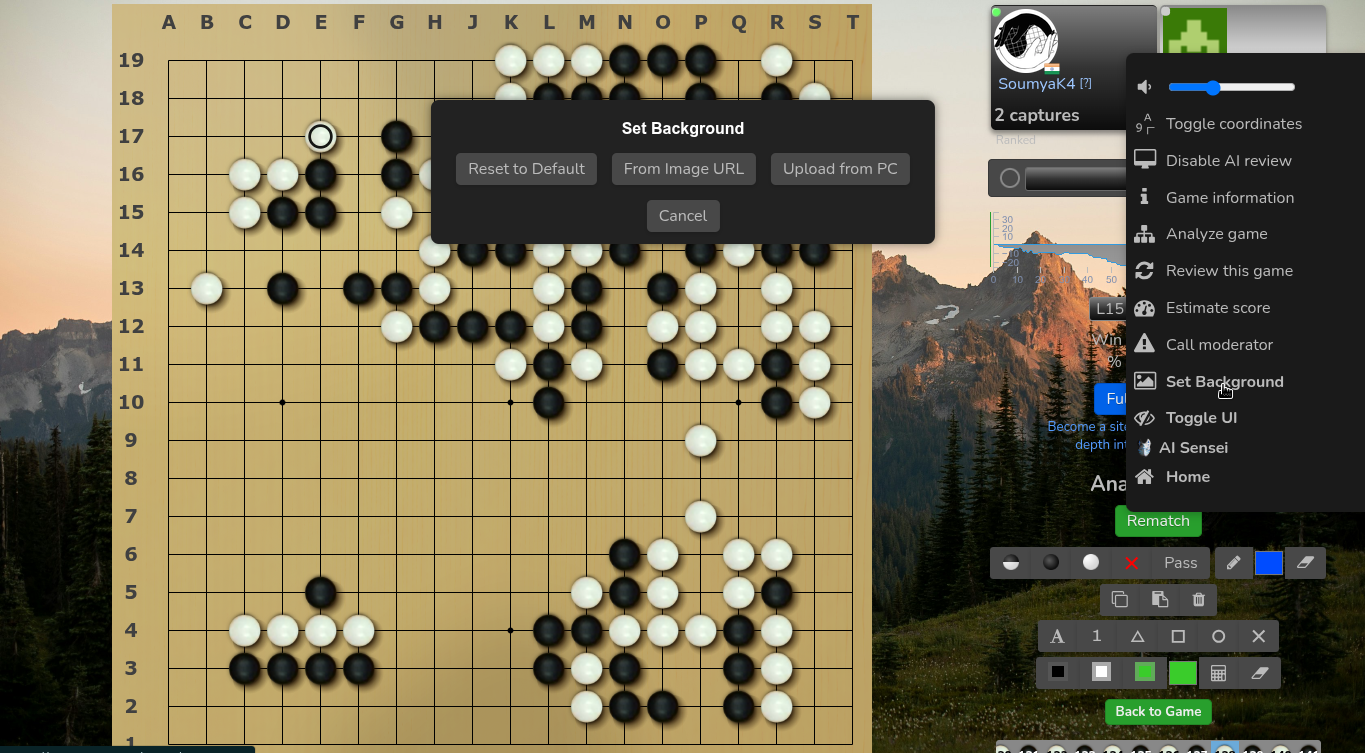
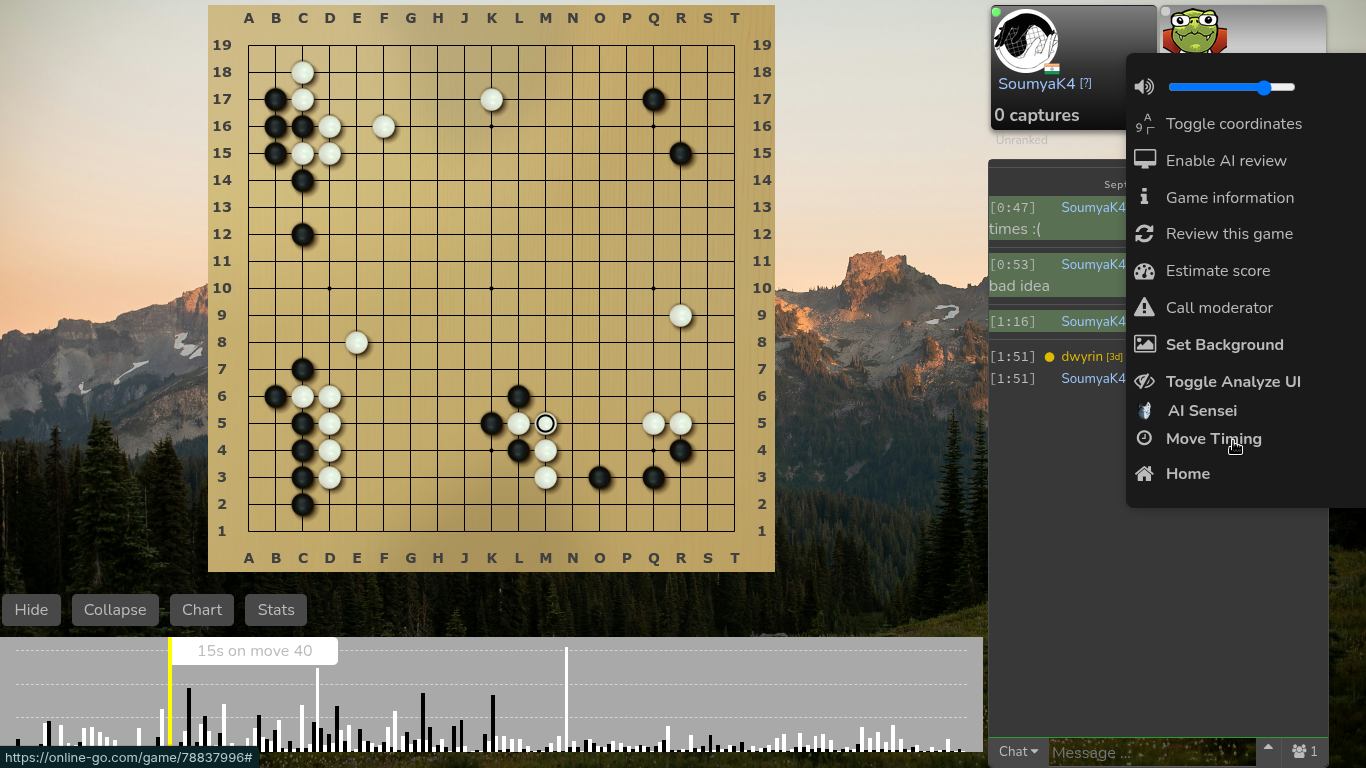
v2.8

diff --git a/OGS-Cosmetic.user.js b/OGS-Cosmetic.user.js
@@ -1,8 +1,8 @@
 // ==UserScript==
 // @name         OGS Custom Cosmetics + UI/UX
 // @namespace    https://soumyak4.in
-// @version      2.7
-// @description  Clean UI, custom background (URL/upload/reset), scroll nav, dock buttons (incl. Toggle UI & AI Sensei). Includes Shift/Ctrl+Scroll behavior, dock item removal by text match, and SGF-to-AI-Sensei integration.
+// @version      2.8
+// @description  Clean UI, custom background (URL/upload/reset), scroll nav, dock buttons (incl. Toggle UI, AI Sensei & Move Timing). Includes Shift/Ctrl+Scroll behavior, dock item removal by text match, and SGF-to-AI-Sensei integration.
 // @author       SoumyaK4
 // @match        https://online-go.com/game/*
 // @match        https://online-go.com/review/*
@@ -18,9 +18,7 @@
   // Default background image URL
   const DEFAULT_BG = 'https://raw.githubusercontent.com/JaKooLit/Wallpaper-Bank/main/wallpapers/Sun-Setting-Horizon.png';
 
-  /**
-   * Utility: Wait for an element to appear in the DOM
-   */
+  /** Utility: Wait for an element to appear in the DOM */
   const waitFor = (selector) => new Promise(resolve => {
     const found = document.querySelector(selector);
     if (found) return resolve(found);
@@ -34,9 +32,7 @@
     observer.observe(document.body, { childList: true, subtree: true });
   });
 
-  /**
-   * Remove top navigation bars, sidebars, and action bars
-   */
+  /** Remove top navigation bars, sidebars, and action bars */
   const cleanLayout = () => {
     ['.NavBar', '.AccessibilityMenu', '.Announcements', '.left-col'].forEach(sel => {
       document.querySelector(sel)?.remove();
@@ -46,9 +42,7 @@
     document.querySelector('div.Game.MainGobanView.wide')?.style.setProperty('top', '0');
   };
 
-  /**
-   * Inject CSS overrides to hide headers and clean UI
-   */
+  /** Inject CSS overrides to hide headers and clean UI */
   const injectCSS = () => {
     const css = `
       .action-bar, .NavBar, header, .SiteHeader, .TopBar, .NavigationBar {
@@ -63,9 +57,7 @@
     document.head.appendChild(style);
   };
 
-  /**
-   * Apply custom background (default or user-set)
-   */
+  /** Apply custom background (default or user-set) */
   const setCustomBackground = () => {
     const url = localStorage.getItem('ogs-custom-bg') || DEFAULT_BG;
     document.documentElement.style.backgroundImage = `url('${url}')`;
@@ -83,9 +75,7 @@
     }
   };
 
-  /**
-   * Show popup menu for background options (reset/url/upload)
-   */
+  /** Show popup menu for background options (reset/url/upload) */
   const backgroundOptionMenu = () => {
     const container = document.createElement('div');
     container.style.cssText = `
@@ -141,9 +131,7 @@
     document.getElementById('close-bg').onclick = () => container.remove();
   };
 
-  /**
-   * Add "Set Background" button to dock
-   */
+  /** Add "Set Background" button to dock */
   const addBackgroundSetterButton = async () => {
     const dock = await waitFor('div.Dock');
     if (dock.querySelector('.set-bg-button')) return;
@@ -165,9 +153,7 @@
     }
   };
 
-  /**
-   * Add "Home" button to dock
-   */
+  /** Add "Home" button to dock */
   const addHomeDockButton = async () => {
     const dock = await waitFor('div.Dock');
     if (!dock.querySelector('.home-dock-button')) {
@@ -180,9 +166,7 @@
     }
   };
 
-  /**
-   * Add "Toggle UI" button to dock (toggles controls/navigation on/off)
-   */
+  /** Add "Toggle UI" button to dock */
   const addToggleUIButton = async () => {
     const dock = await waitFor('div.Dock');
     if (dock.querySelector('.toggle-ui-button')) return;
@@ -191,7 +175,7 @@
     toggleButton.className = 'TooltipContainer toggle-ui-button';
     toggleButton.innerHTML = `
       <div class="Tooltip disabled"><p class="title">Toggle Analyze Tools</p></div>
-      <div><a href="#" style="text-decoration:none;color:inherit;font-weight:bold;"><i class="fa fa-eye-slash"></i> Toggle UI</a></div>
+      <div><a href="#" style="text-decoration:none;color:inherit;font-weight:bold;"><i class="fa fa-eye-slash"></i> Toggle Analyze UI</a></div>
     `;
 
     toggleButton.addEventListener('click', () => {
@@ -214,9 +198,7 @@
     }
   };
 
-  /**
-   * Add "AI Sensei" button to dock
-   */
+  /** Add "AI Sensei" button to dock */
   const addAISenseiButton = async () => {
     const dock = await waitFor('div.Dock');
     if (dock.querySelector('.ai-sensei-button')) return;
@@ -226,9 +208,9 @@
     aiButton.innerHTML = `
       <div class="Tooltip disabled"><p class="title">Analyze with AI Sensei</p></div>
       <div>
-       <a href="#" style="text-decoration:none;color:inherit;font-weight:bold;display:flex;align-items:center;gap:5px;">
-        <img src="https://ai-sensei.com/img/Logo_192.png" alt="AI Sensei" style="width:20px;height:20px;border-radius:4px;">
-         AI Sensei
+       <a href="#" style="text-decoration:none;color:inherit;font-weight:bold;gap:14px;">
+        <img src="https://ai-sensei.com/img/Logo_192.png" alt="AI Sensei" style="width:20px;height:20px;">
+          AI Sensei
        </a>
       </div>
     `;
@@ -242,15 +224,12 @@
           return;
         }
         const gameId = match[1];
-
         // 2. Fetch SGF from OGS API
         const response = await fetch(`https://online-go.com/api/v1/games/${gameId}/sgf`);
         if (!response.ok) throw new Error("Failed to fetch SGF.");
         const sgf = await response.text();
-
         // 3. Encode SGF for URL
         const encoded = encodeURIComponent(sgf);
-
         // 4. Build AI Sensei link and open
         const link = `https://ai-sensei.com/upload?sgf=${encoded}`;
         window.open(link, '_blank');
@@ -260,7 +239,7 @@
       }
     });
 
-    const homeBtn = dock.querySelector('.home-dock-button');
+    const homeBtn = dock.querySelector('.move-timing-button');
     if (homeBtn) {
       dock.insertBefore(aiButton, homeBtn);
     } else {
@@ -268,17 +247,47 @@
     }
   };
 
-  /**
-   * Remove unwanted dock items by text match (instead of index)
-   */
+  /** Add "Move Timing" button to dock (toggles external script) */
+  const addMoveTimingButton = async () => {
+    const dock = await waitFor('div.Dock');
+    if (dock.querySelector('.move-timing-button')) return;
+
+    const mtButton = document.createElement('div');
+    mtButton.className = 'TooltipContainer move-timing-button';
+    mtButton.innerHTML = `
+      <div class="Tooltip disabled"><p class="title">Toggle Move Timing</p></div>
+      <div><a href="#" style="text-decoration:none;color:inherit;font-weight:bold;"><i class="fa fa-clock-o"></i> Move Timing</a></div>
+    `;
+
+    let enabled = false;
+    mtButton.addEventListener('click', () => {
+      if (!enabled) {
+        const e = document.createElement("script");
+        e.src = `https://psalaets.github.io/ogs-move-timing/bookmarklet.js?${Date.now()}`;
+        e.type = "module";
+        e.onload = () => setTimeout(() => e.remove(), 1000);
+        document.body.appendChild(e);
+        enabled = true;
+      } else {
+        location.reload(); // easiest way to disable cleanly
+      }
+    });
+
+    const homeBtn = dock.querySelector('.home-dock-button');
+    if (homeBtn) {
+      dock.insertBefore(mtButton, homeBtn);
+    } else {
+      dock.appendChild(mtButton);
+    }
+  };
+
+  /** Remove unwanted dock items by text match */
   const removeDockItems = async () => {
     const dock = await waitFor('div.Dock');
     const items = dock.querySelectorAll('div.TooltipContainer');
-
     const removeTexts = [
-      'Zen mode', 'Fork game', 'Link to game', 'Add to library', 'Download SGF', 'SGF with comments', 'Link to review'
+      'Zen mode', 'Fork game', 'Analyze game', 'Link to game', 'Add to library', 'Download SGF', 'SGF with comments', 'Link to review'
     ];
-
     items.forEach(item => {
       const text = item.innerText.trim();
       if (removeTexts.some(word => text.includes(word))) {
@@ -287,9 +296,7 @@
     });
   };
 
-  /**
-   * Enable scroll navigation on the board
-   */
+  /** Enable scroll navigation on the board */
   const enableScrollNavigation = async () => {
     const goban = await waitFor('.goban-container');
     goban.onwheel = (e) => {
@@ -307,9 +314,7 @@
     };
   };
 
-  /**
-   * Initialize all modifications when page loads
-   */
+  /** Initialize all modifications when page loads */
   const onPageLoad = async () => {
     cleanLayout();
     injectCSS();
@@ -317,14 +322,13 @@
     addBackgroundSetterButton();
     addHomeDockButton();
     addToggleUIButton();
+    addMoveTimingButton();
     addAISenseiButton();
     removeDockItems();
     enableScrollNavigation();
   };
 
-  /**
-   * Observe URL changes (for SPA navigation)
-   */
+  /** Observe URL changes (for SPA navigation) */
   const observeUrlChange = () => {
     let currentUrl = location.href;
     new MutationObserver(() => {

diff --git a/README.md b/README.md
@@ -17,6 +17,7 @@ Custom game, review, demo UI
    - A button to go back to home screen as I removed the top nav bar
    - Toggle Analyze Tools Section 
    - Open game in AI Sensei(v2.7)
+5. Beta Move Timing Analysis Tool(v2.8) - [Credits](https://psalaets.github.io/ogs-move-timing/)
 
 ## Screenshot
 
@@ -36,6 +37,8 @@ White Stone -
 https://raw.githubusercontent.com/SoumyaK4/Upsided-Sabaki-Themes/main/baduktv/glass_white2.png
 ```
 
-Full Showcase of UI
+Full Showcase of UI + Move Timing
 ![](/fullView.png)
 
+Background Menu
+![](/bgMenu.png)
